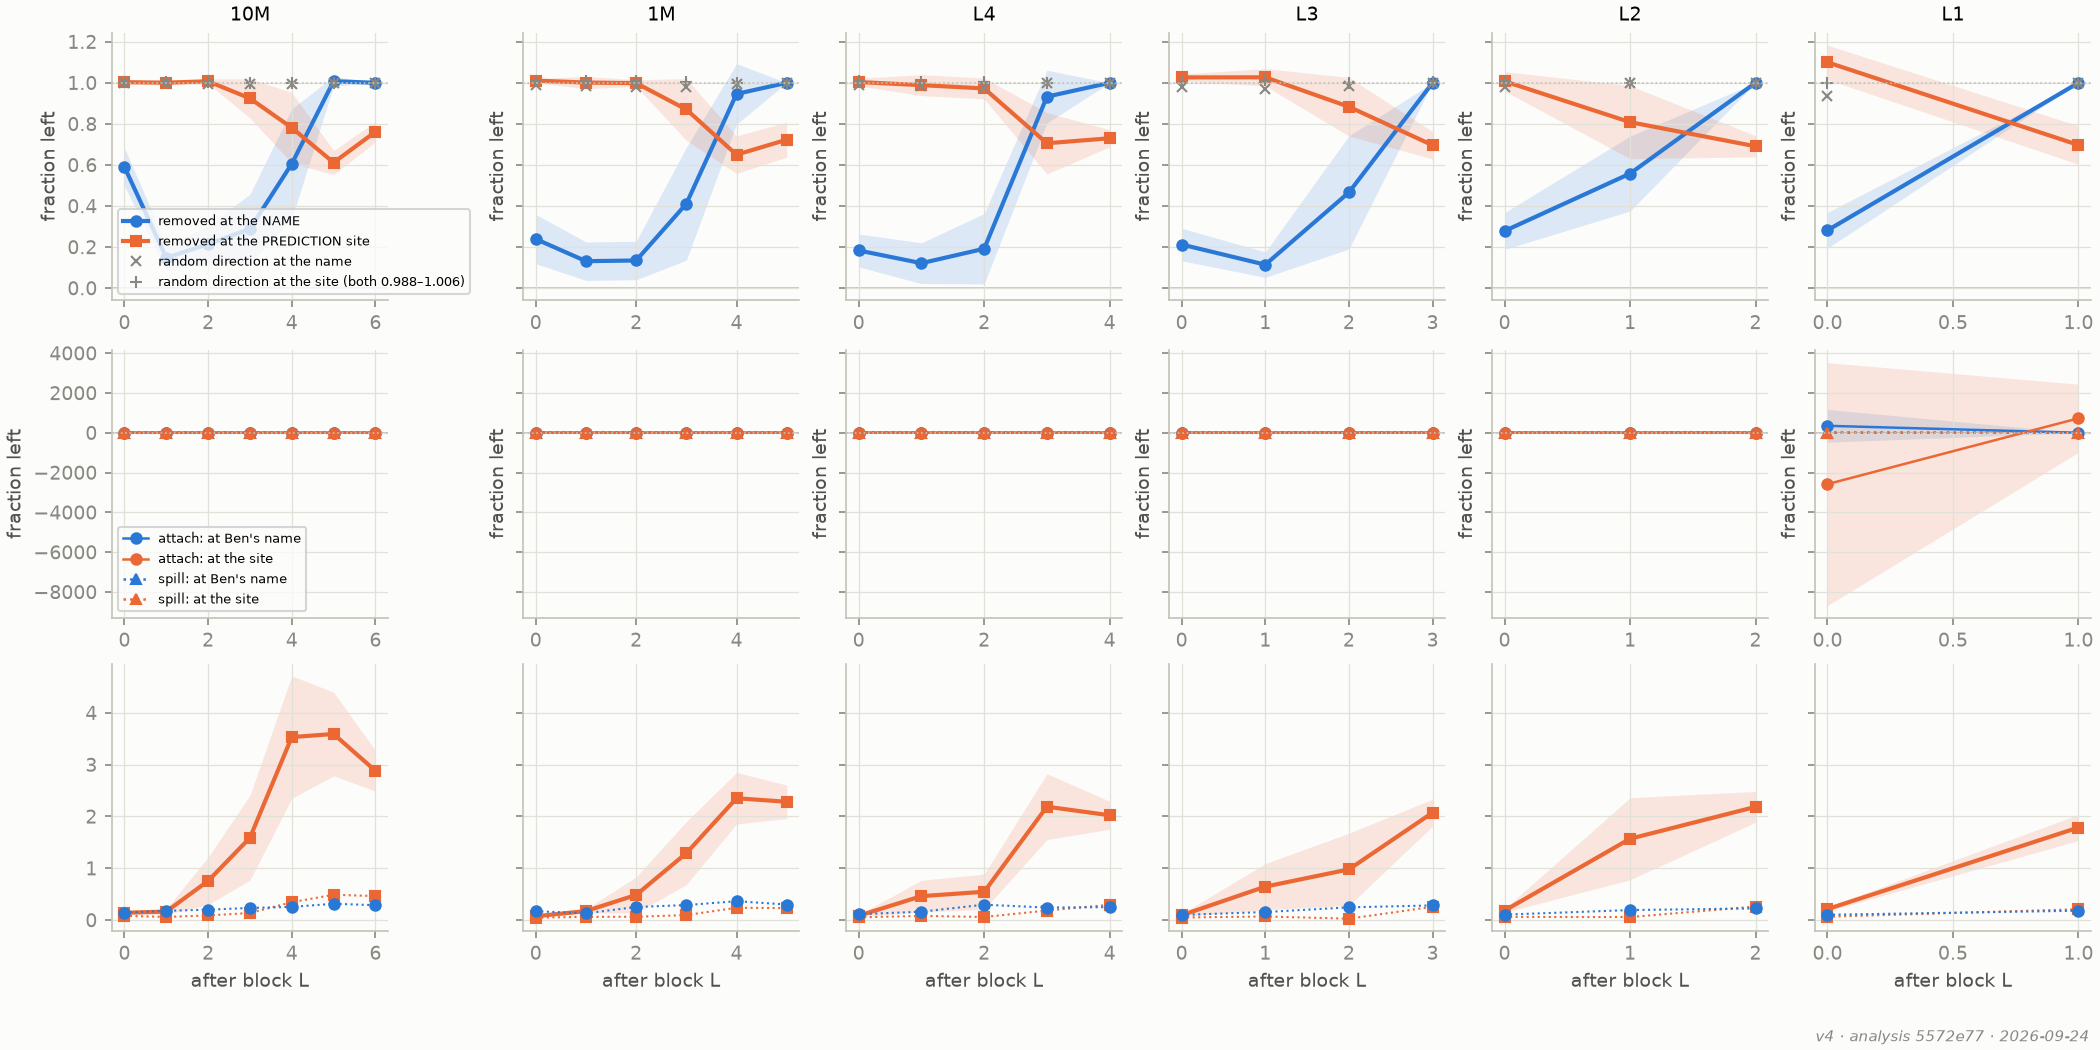
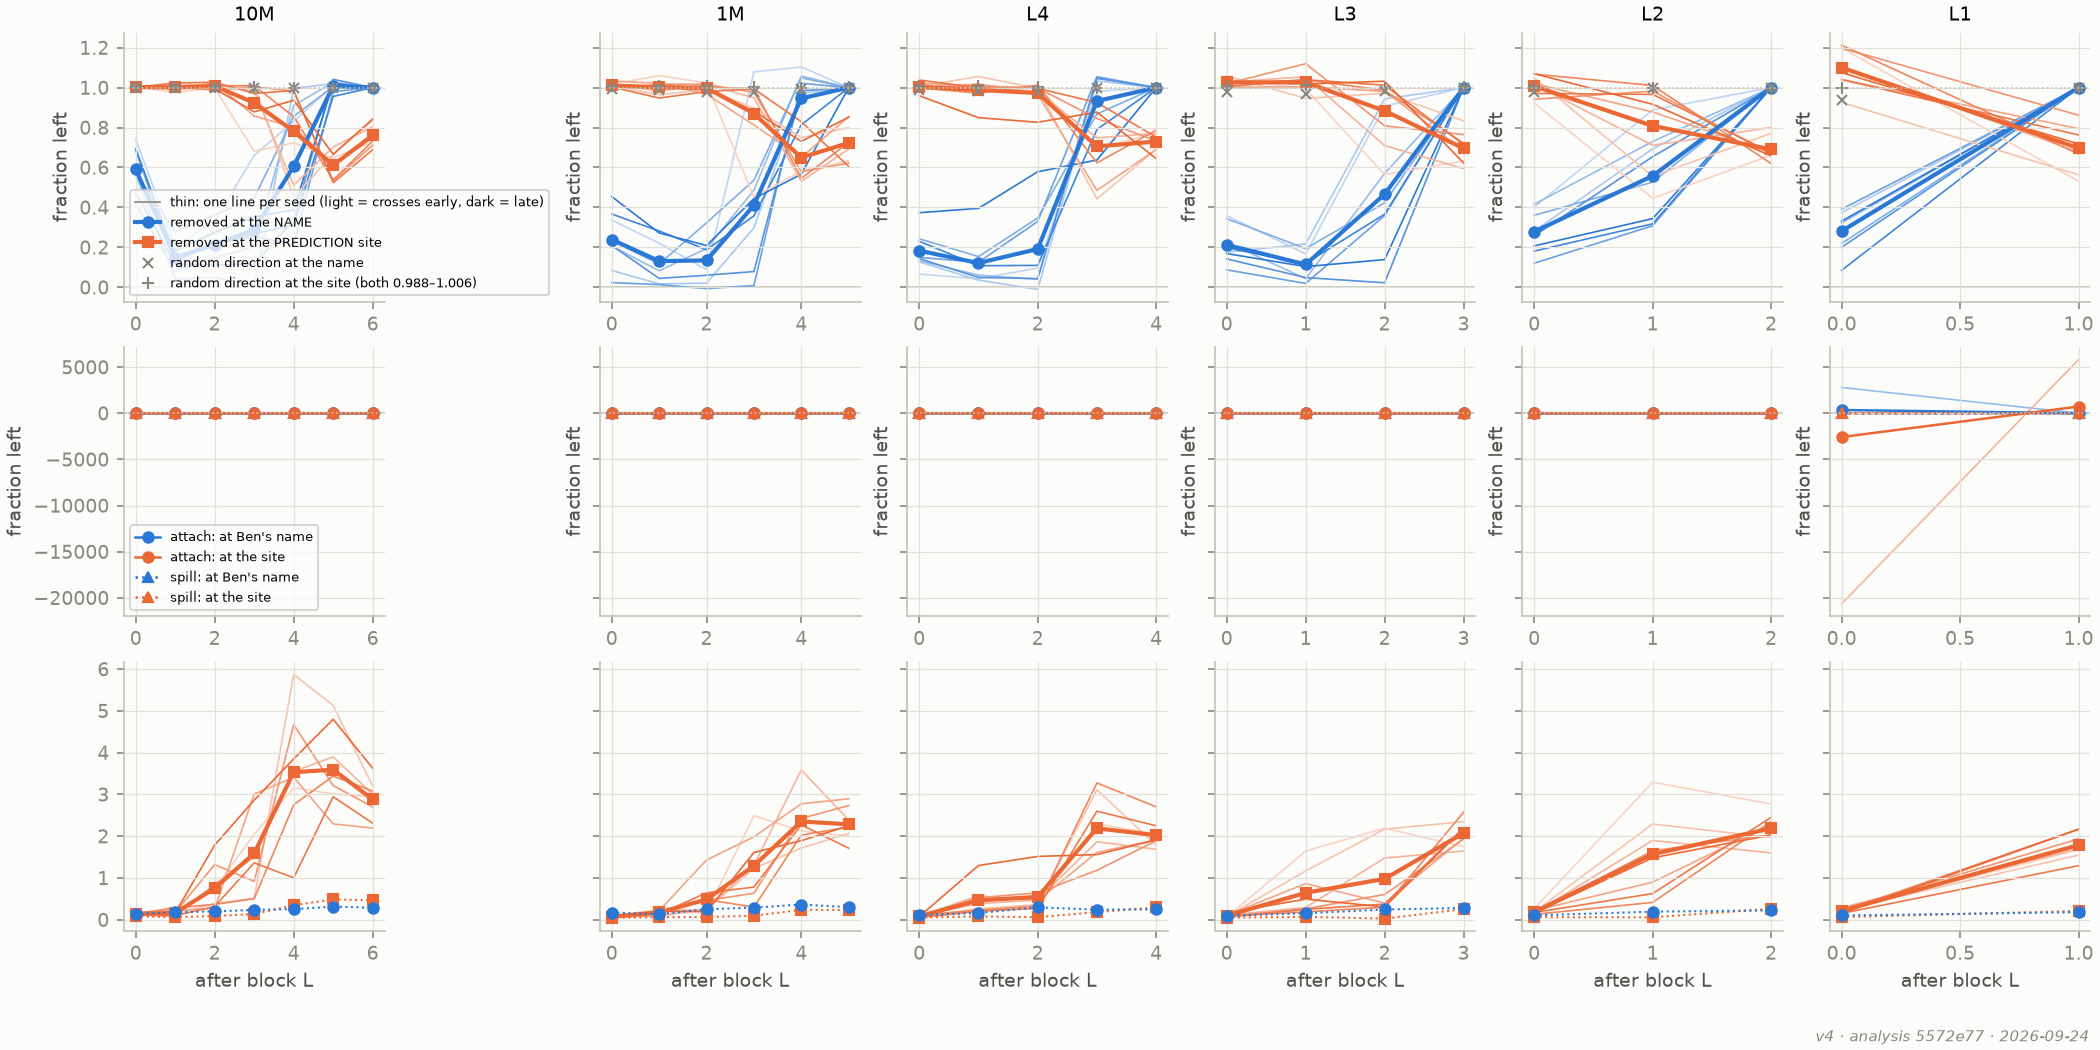
Figures 5a / A5: a thin line per seed on the scans and the site separation, shaded by the block at which the seed's base scan crosses (the same shade on every trace), the mean bold.

diff --git a/scripts/plan_figures.py b/scripts/plan_figures.py
@@ -1250,15 +1250,40 @@ def seed_band(ax, runs, key, color):
     ax.fill_between(L, [c["lo"] for c in cis], [c["hi"] for c in cis], color=color, alpha=0.15, lw=0)
 
 
+def shade(color, t):
+    """`color` mixed with white by t (0 = the colour, 1 = white)."""
+    rgb = np.array(matplotlib.colors.to_rgb(color))
+    return tuple(rgb + (1 - rgb) * t)
+
+
+FLOW_SEEDS = "lines"  # "lines": a thin line per seed, "band": the 95 % t interval over seeds
+
+
+def seed_lines(ax, runs, key, color, order):
+    """A thin line per seed; its shade by the seed's rank in `order` (light = crosses early,
+    dark = late), the same shade for the seed on every trace."""
+    for rank, r in enumerate(order):
+        if r.get(key) is not None:
+            ax.plot(np.arange(len(r[key])), r[key], color=shade(color, 0.7 * (1 - rank / max(1, len(order) - 1))), lw=0.8, zorder=1)
+
+
 def draw_flow(axes, c, act="steal", runs=()):
     """Base scan, the finetune's scan, the separation at the site; on axes[0..2] (and attention on
-    axes[3]); with `runs` (the cell's seeds), 95 % bands over seeds."""
+    axes[3]); with `runs` (the cell's seeds), a thin line per seed shaded by where the seed's base
+    scan crosses (FLOW_SEEDS = "band": 95 % bands over seeds instead)."""
     L = np.arange(len(c["base_name"]))
-    for key, ax_, col in (("base_name", axes[0], TWO[0]), ("base_site", axes[0], TWO[1]), ("dprime_site", axes[2], TWO[1])):
-        seed_band(ax_, runs, key, col)
-    for part in ("attach", "spill"):
-        for pos, col in (("name", TWO[0]), ("site", TWO[1])):
-            seed_band(axes[1], runs, f"{act}_{part}_{pos}", col)
+    if runs and FLOW_SEEDS == "lines":
+        order = sorted(runs, key=lambda r: (r.get("base_crossing") if r.get("base_crossing") is not None else 99))
+        for key, ax_, col in (("base_name", axes[0], TWO[0]), ("base_site", axes[0], TWO[1]), ("dprime_site", axes[2], TWO[1]),
+                              (f"{act}_attach_name", axes[1], TWO[0]), (f"{act}_attach_site", axes[1], TWO[1])):
+            seed_lines(ax_, runs=order, key=key, color=col, order=order)
+        axes[0].plot([], [], color=MUTED, lw=0.8, label="thin: one line per seed (light = crosses early, dark = late)")
+    else:
+        for key, ax_, col in (("base_name", axes[0], TWO[0]), ("base_site", axes[0], TWO[1]), ("dprime_site", axes[2], TWO[1])):
+            seed_band(ax_, runs, key, col)
+        for part in ("attach", "spill"):
+            for pos, col in (("name", TWO[0]), ("site", TWO[1])):
+                seed_band(axes[1], runs, f"{act}_{part}_{pos}", col)
     axes[0].plot(L, c["base_name"], "o-", color=TWO[0], label="removed at the NAME")
     axes[0].plot(L, c["base_site"], "s-", color=TWO[1], label="removed at the PREDICTION site")
     # the control: a random direction removed instead (three per position); its band is ~0.006 wide
